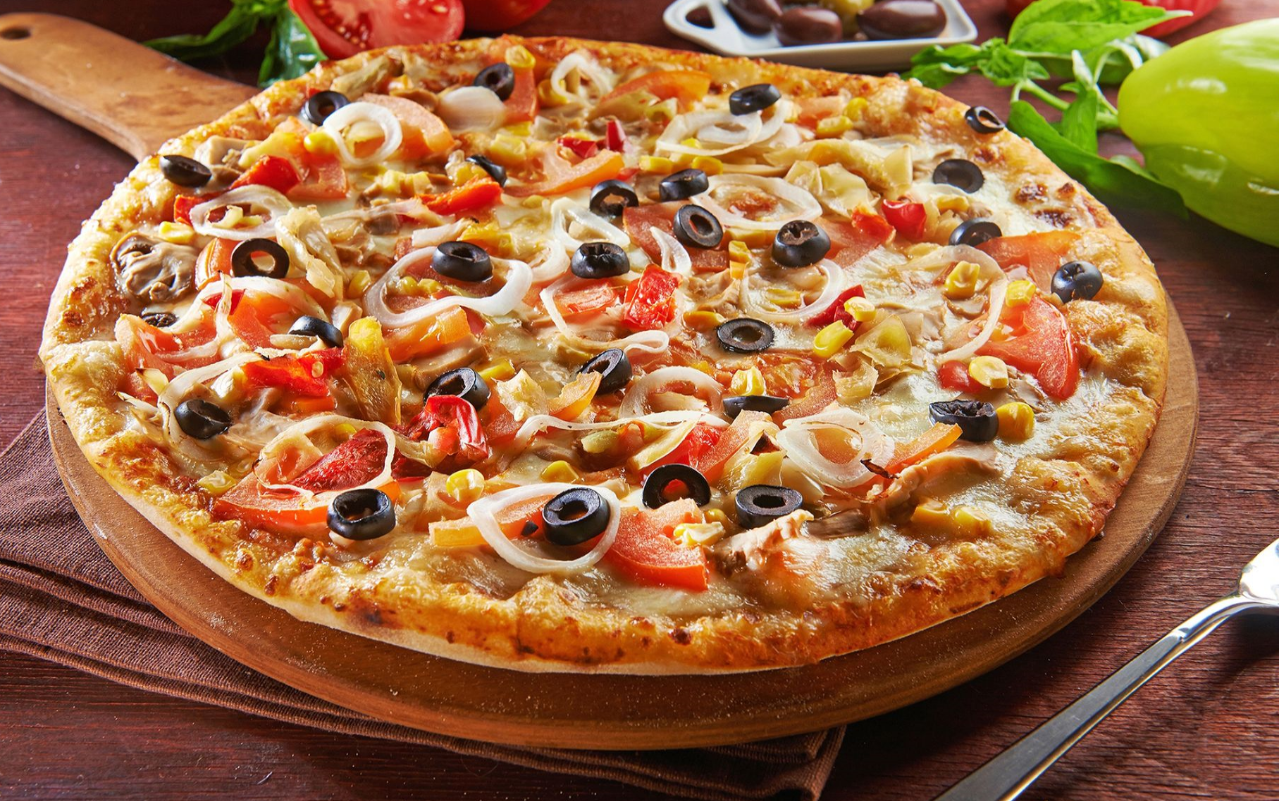
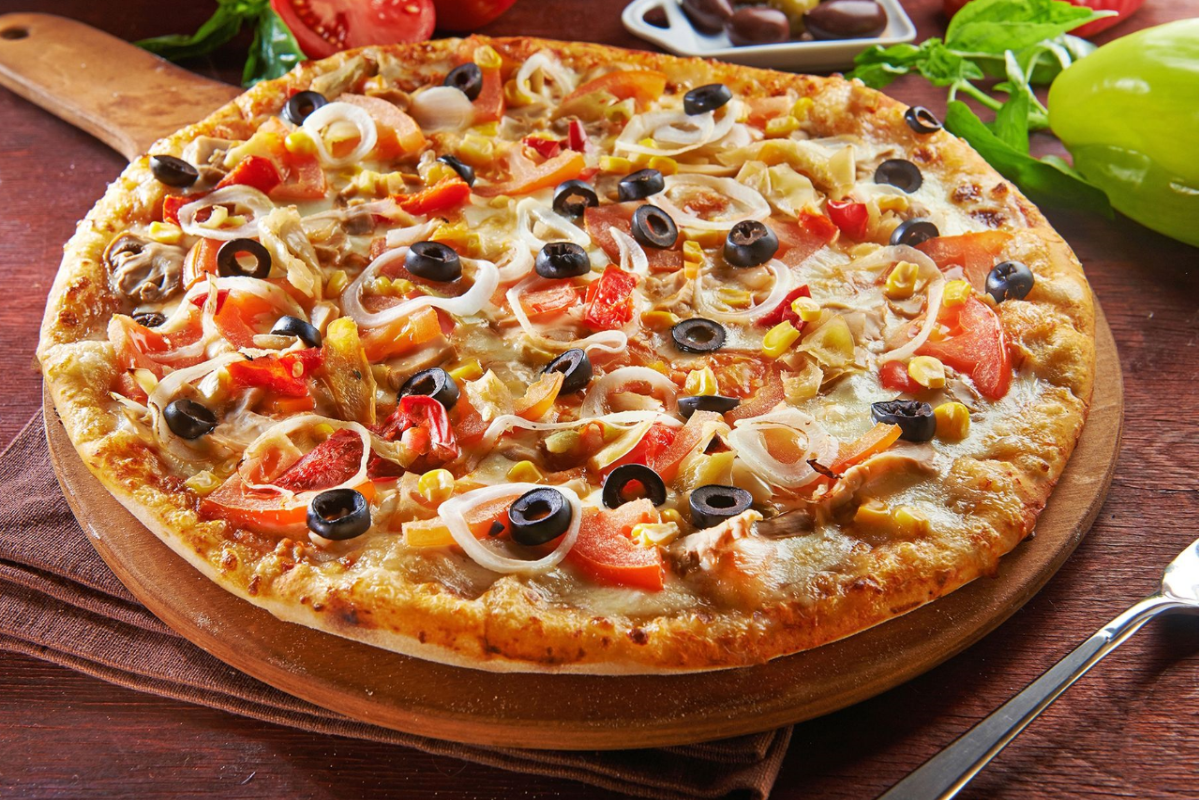
Поменял фотки и доделал Главную страницу с каруселью

diff --git a/app/templates/app/index.html b/app/templates/app/index.html
@@ -1,71 +1,8 @@
 {% extends "app/layout.html" %}
 {% block content %}
 {% load static %}
-<!--<--><!--div id="myCarousel" class="carousel slide" data-ride="carousel" data-interval="2000">
-    <ol class="carousel-indicators">
-        <li data-target="#myCarousel" data-slide-to="0" class="active"></li>
-        <li data-target="#myCarousel" data-slide-to="1"></li>
-        <li data-target="#myCarousel" data-slide-to="2"></li>
-        <li data-target="#myCarousel" data-slide-to="3"></li>
-    </ol>
-    <div class="carousel-inner " role="listbox">
-        <div class="item active">
-            <img src="{% static 'app/content/banner1.png'%} " alt="Первый слайд" class="img-responsive" />
-            <div class="carousel-caption" role="option">
-                <p>
-                    История суши
-                    <a class="btn btn-default" href="blogpost/1/">
-                        Читать далее
-                    </a>
-                </p>
-            </div>
-        </div>
-        <div class="item">
-            <img src="{% static 'app/content/banner2.png'%}" alt="Второй слайд" class="img-responsive" />
-            <div class="carousel-caption" role="option">
-                <p>
-                    Как правильно есть суши?
-                    <a class="btn btn-default" href="blogpost/3/">
-                        Читать далее
-                    </a>
-                </p>
-            </div>
-        </div>
-        <div class="item">
-            <img src=" {% static 'app/content/banner3.png'%} " alt="Третий слайд" class="img-responsive" />
-            <div class="carousel-caption" role="option">
-                <p>
-                    История пиццы
-                    <a class="btn btn-default" href="blogpost/2/">
-                        Читать далее
-                    </a>
-                </p>
-            </div>
-        </div>
-        <div class="item">
-            <img src=" {% static 'app/content/banner4.png'%} " alt="Четвёртый слайд" class="img-responsive" />
-            <div class="carousel-caption" role="option">
-                <p>
-                    Как готовить пиццу?
-                    <a class="btn btn-default" href="blogpost/4/">
-                        Читать далее
-                    </a>
-                </p>
-            </div>
-        </div>
-    </div>
-    <a class="left carousel-control" href="#myCarousel" role="button" data-slide="prev">
-        <span class="glyphicon glyphicon-chevron-left" aria-hidden="true"></span>
-        <span class="sr-only">Previous</span>
-    </a>
 
-    <a class="right carousel-control" href="#myCarousel" role="button" data-slide="next">
-        <span class="glyphicon glyphicon-chevron-right" aria-hidden="true"></span>
-        <span class="sr-only">Next</span>
-    </a>-->
-
-<!--</div>-->
-<div id="MyCarousel" class="carousel slide container" data-bs-ride="carousel" data-interval="200">
+<div id="MyCarousel" class="carousel slide" data-bs-ride="carousel" data-bs-interval="5000">
     <ol class="carousel-indicators">
         <li type="button" data-bs-target="#MyCarousel" data-bs-slide-to="0" class="active" aria-current="true" aria-label="Slide 1"></li>
         <li type="button" data-bs-target="#MyCarousel" data-bs-slide-to="1" aria-label="Slide 2"></li>
@@ -74,52 +11,42 @@
     </ol>
     <div class="carousel-inner " role="listbox">
         <div class="carousel-item active">
-            <img src=" {% static 'app/content/banner1.png'%} " class="d-block wd-100" alt="...">
+            <img src=" {% static 'app/content/banner1.png'%} " class="d-block w-100 img-responsive" alt="Slide 1">
             <div class="carousel-caption d-none d-md-block">
                 <h5>История суши</h5>
-                <a class="btn btn-default" href="blogpost/1/">
+                <a class="btn btn-primary" href="blogpost/1/">
                     Читать далее
                 </a>
             </div>
         </div>
         <div class="carousel-item">
-            <img src=" {% static 'app/content/banner2.png'%} " class="d-block" alt="...">
+            <img src=" {% static 'app/content/banner2.png'%} " class="d-block w-100 img-responsive" alt="Slide 2">
             <div class="carousel-caption d-none d-md-block">
                 <h5>Как правильно есть суши?</h5>
-                <a class="btn btn-default" href="blogpost/3/">
+                <a class="btn btn-primary" href="blogpost/3/">
                     Читать далее
                 </a>
             </div>
         </div>
         <div class="carousel-item">
-            <img src=" {% static 'app/content/banner3.png'%} " class="d-block" alt="...">
+            <img src=" {% static 'app/content/banner3.png'%} " class="d-block w-100 img-responsive" alt="Slide 3">
             <div class="carousel-caption d-none d-md-block">
                 <h5>История пиццы</h5>
-                <a class="btn btn-default" href="blogpost/2/">
+                <a class="btn btn-primary" href="blogpost/2/">
                     Читать далее
                 </a>
             </div>
         </div>
         <div class="carousel-item">
-            <img src=" {% static 'app/content/banner4.png'%} " class="d-block" alt="...">
+            <img src=" {% static 'app/content/banner4.png'%} " class="d-block w-100 img-responsive" alt="Slide 4">
             <div class="carousel-caption d-none d-md-block">
                 <h5>Как готовить пиццу?</h5>
-                <a class="btn btn-default" href="blogpost/4/">
+                <a class="btn btn-primary" href="blogpost/4/">
                     Читать далее
                 </a>
             </div>
         </div>
     </div>
-
-    <!--<a class="left carousel-control" href="#myCarousel" role="button" data-slide="prev">
-        <span class="glyphicon glyphicon-chevron-left" aria-hidden="true"></span>
-        <span class="sr-only">Previous</span>
-    </a>
-
-    <a class="right carousel-control" href="#myCarousel" role="button" data-slide="next">
-        <span class="glyphicon glyphicon-chevron-right" aria-hidden="true"></span>
-        <span class="sr-only">Next</span>
-    </a>-->
 
     <button class="carousel-control-prev" type="button" data-bs-target="#MyCarousel" data-bs-slide="prev">
         <span class="carousel-control-prev-icon" aria-hidden="true"></span>
@@ -129,33 +56,6 @@
         <span class="carousel-control-next-icon" aria-hidden="true"></span>
         <span class="visually-hidden">Следующий</span>
     </button>
-</div>
-
-
-<div class="jumbotron">
-    <h1>AsiaSushi</h1>
-    <p class="lead">AsiaSushi - это очень вкусные суши и пицца с доставкой до вашего дома.</p>
-    <p><a href="https://www.djangoproject.com/" class="btn btn-primary btn-large">Узнать больше &raquo;</a></p>
-</div>
-
-<div class="row">
-    <div class="col-md-4">
-        <h2>Каталог</h2>
-        <p>
-            Каталог самых вкусных суши и замечательных пиц (в работе)
-        </p>
-        <p><a class="btn btn-primary btn-large" href="https://djangobook.com/django-tutorials/">Узнать больше &raquo;</a></p>
-    </div>
-    <div class="col-md-4">
-        <h2>Полезные ресурсы</h2>
-        <p>Тут находятся ссылки на наши ресурсы которые вы можете посетить и так же заказать суши и пиццу</p>
-        <p><a class="btn btn-primary btn-large" href="{% url 'links' %}">Узнать больше &raquo;</a></p>
-    </div>
-    <div class="col-md-4">
-        <h2>Блог</h2>
-        <p>В нашем блоге есть интересные статьи о создании суши и пиццы</p>
-        <p><a class="btn btn-primary btn-large" href="{% url 'blog' %}">Узнать больше &raquo;</a></p>
-    </div>
 </div>
 
 {% endblock %}

diff --git a/app/templates/app/loginpartial.html b/app/templates/app/loginpartial.html
@@ -1,9 +1,9 @@
-{% if user.is_authenticated %}
+{% if user.is_authenticated %}
 <form id="logoutForm" action="/logout/" method="post" class="navbar-right">
     {% csrf_token %}
     <ul class="nav navbar-nav navbar-right">
         <li><span class="navbar-brand">Здравствуйте {{ user.username }}!</span></li>
-        <li><a class="navbar-brand" href="javascript:document.getElementById('logoutForm').submit()">Выйти из системы</a></li>
+        <li><a class="btn btn-danger" href="javascript:document.getElementById('logoutForm').submit()">Выйти из системы</a></li>
     </ul>
 </form>
 

diff --git a/app/static/app/content/site.css b/app/static/app/content/site.css
@@ -42,12 +42,12 @@ input[type="checkbox"].input-validation-error {
 }
 
 h5 {
-    color: aqua;
+    color: navajowhite;
 }
 
 .carousel-img {
-    width: 10%;
-    height: 80%;
+    width: 100%;
+    height: auto;
 }
 
 .content-background {

diff --git a/app/templates/app/layout.html b/app/templates/app/layout.html
@@ -54,7 +54,7 @@
             </div>
         </div>
     </nav>
-    <div>
+    <div class="container">
         {% block content %}{% endblock %}
         <hr />
         <footer >
